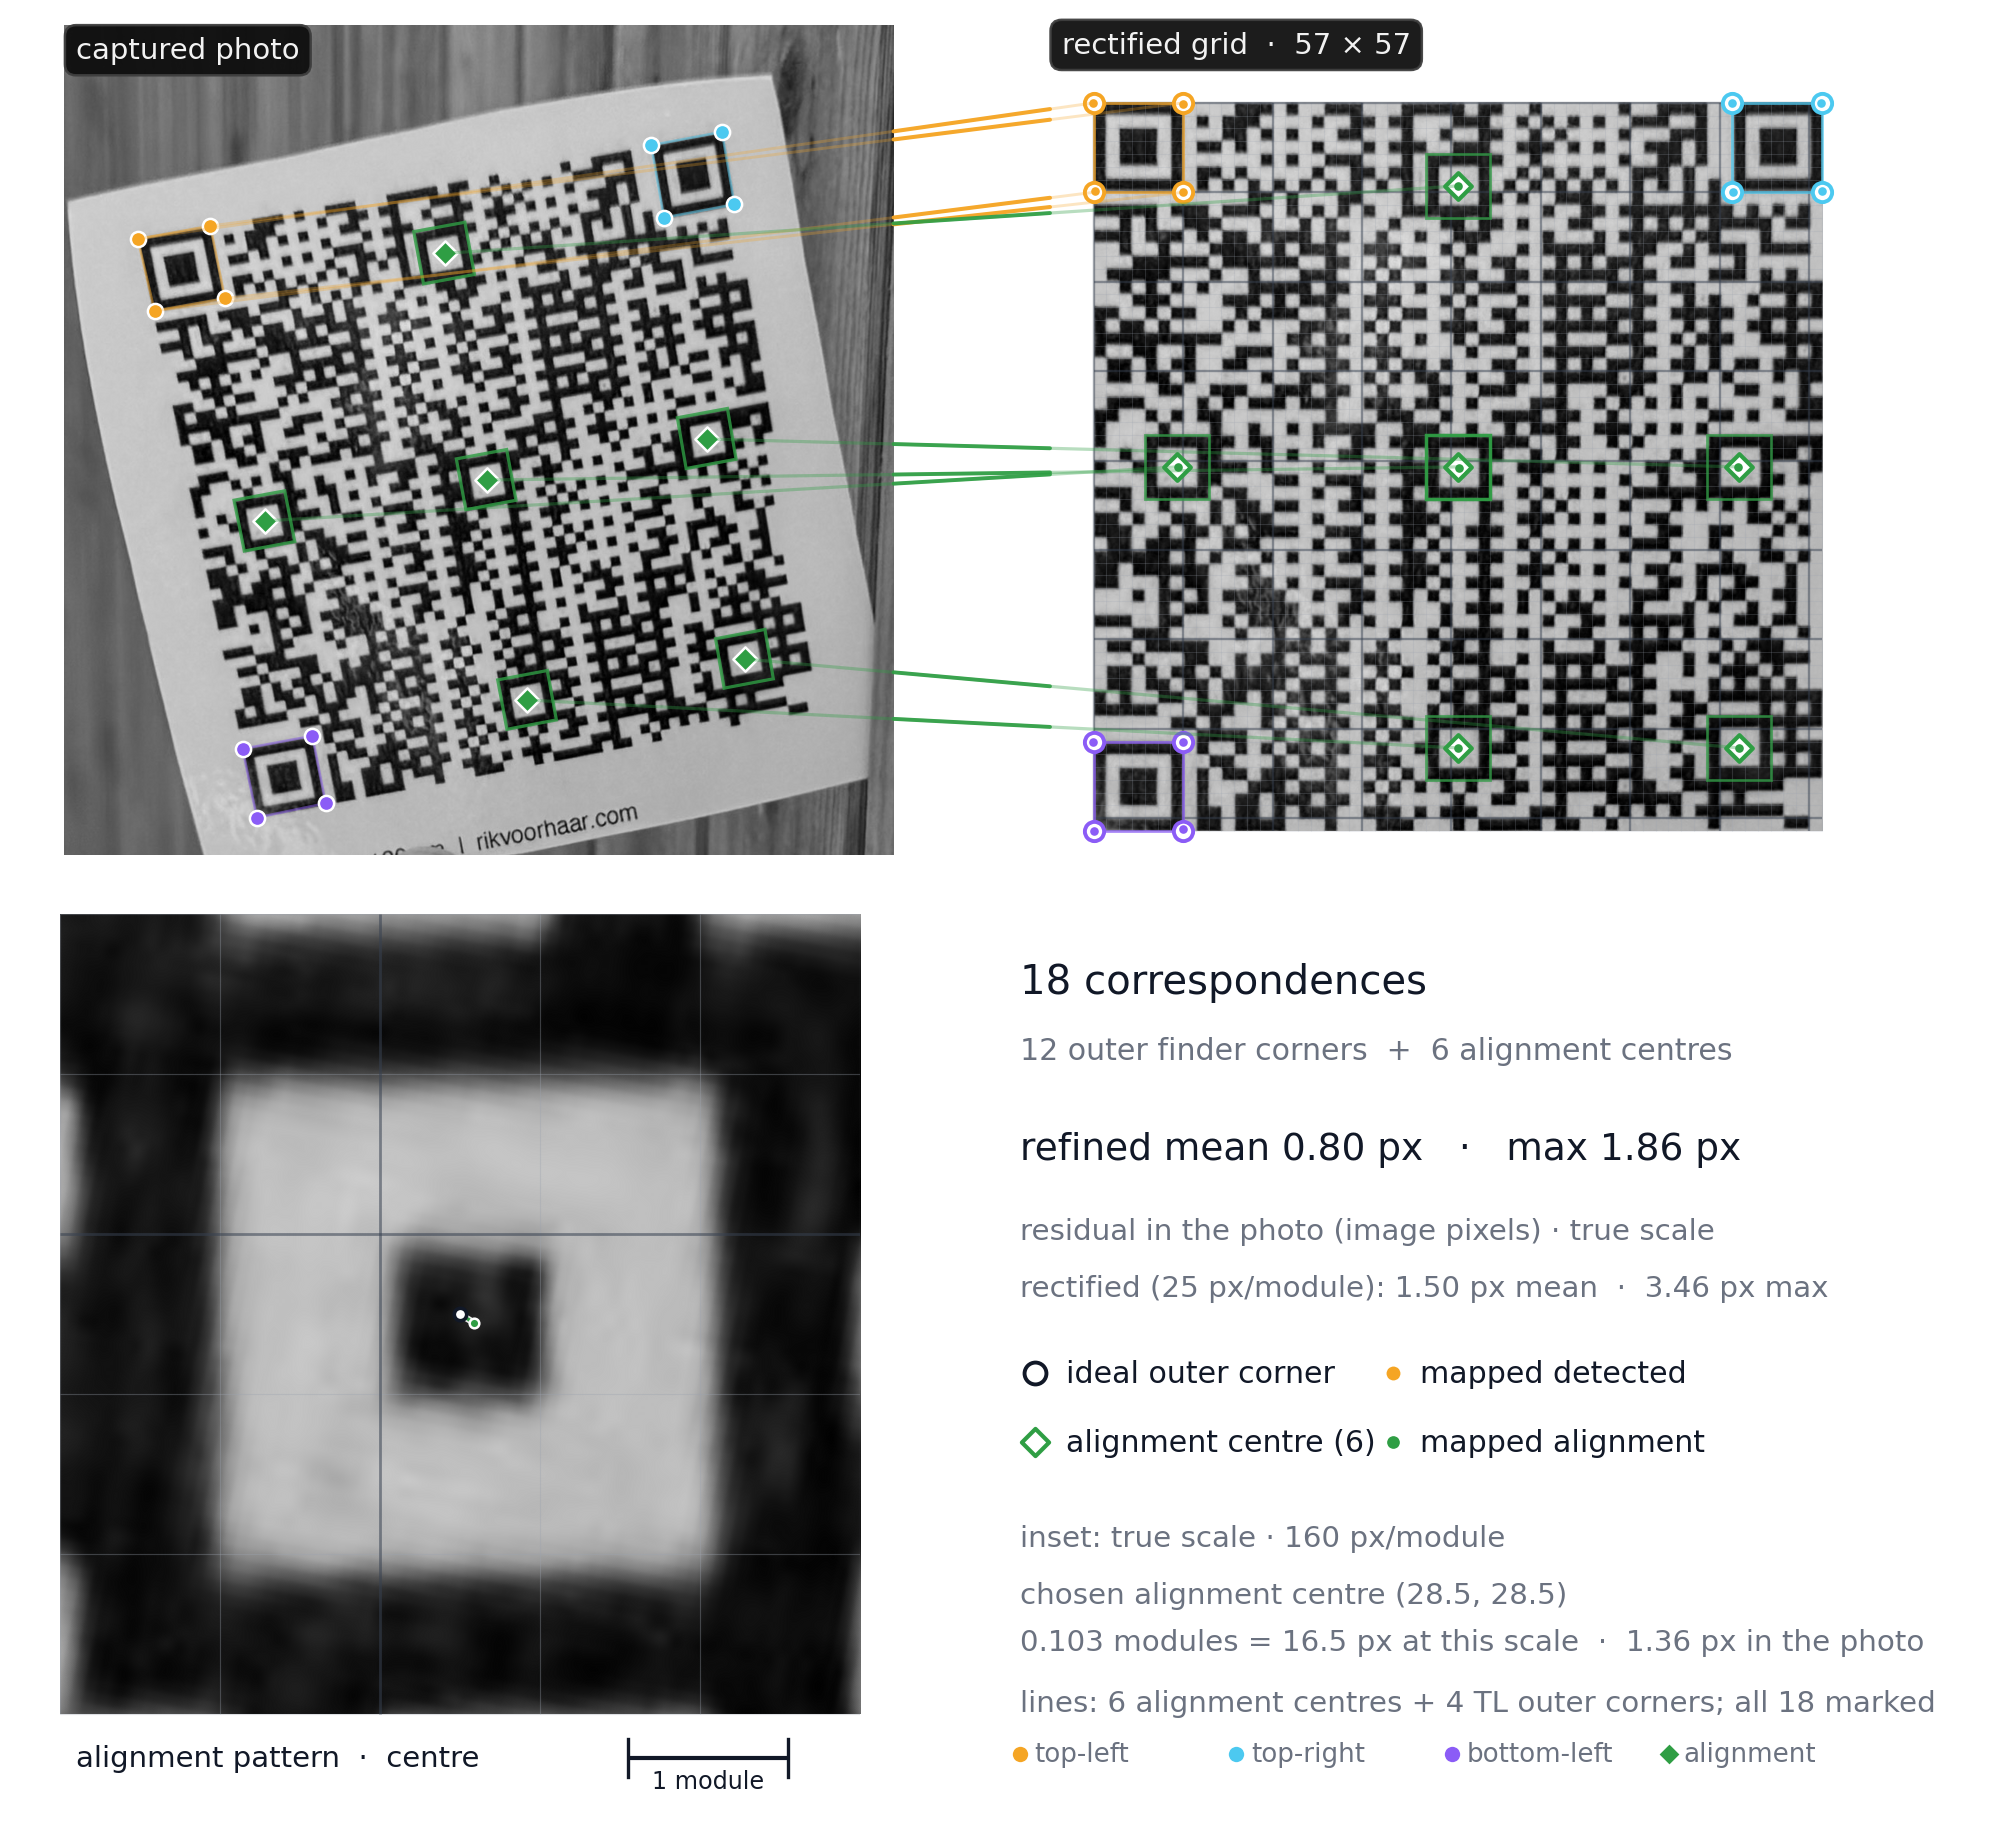
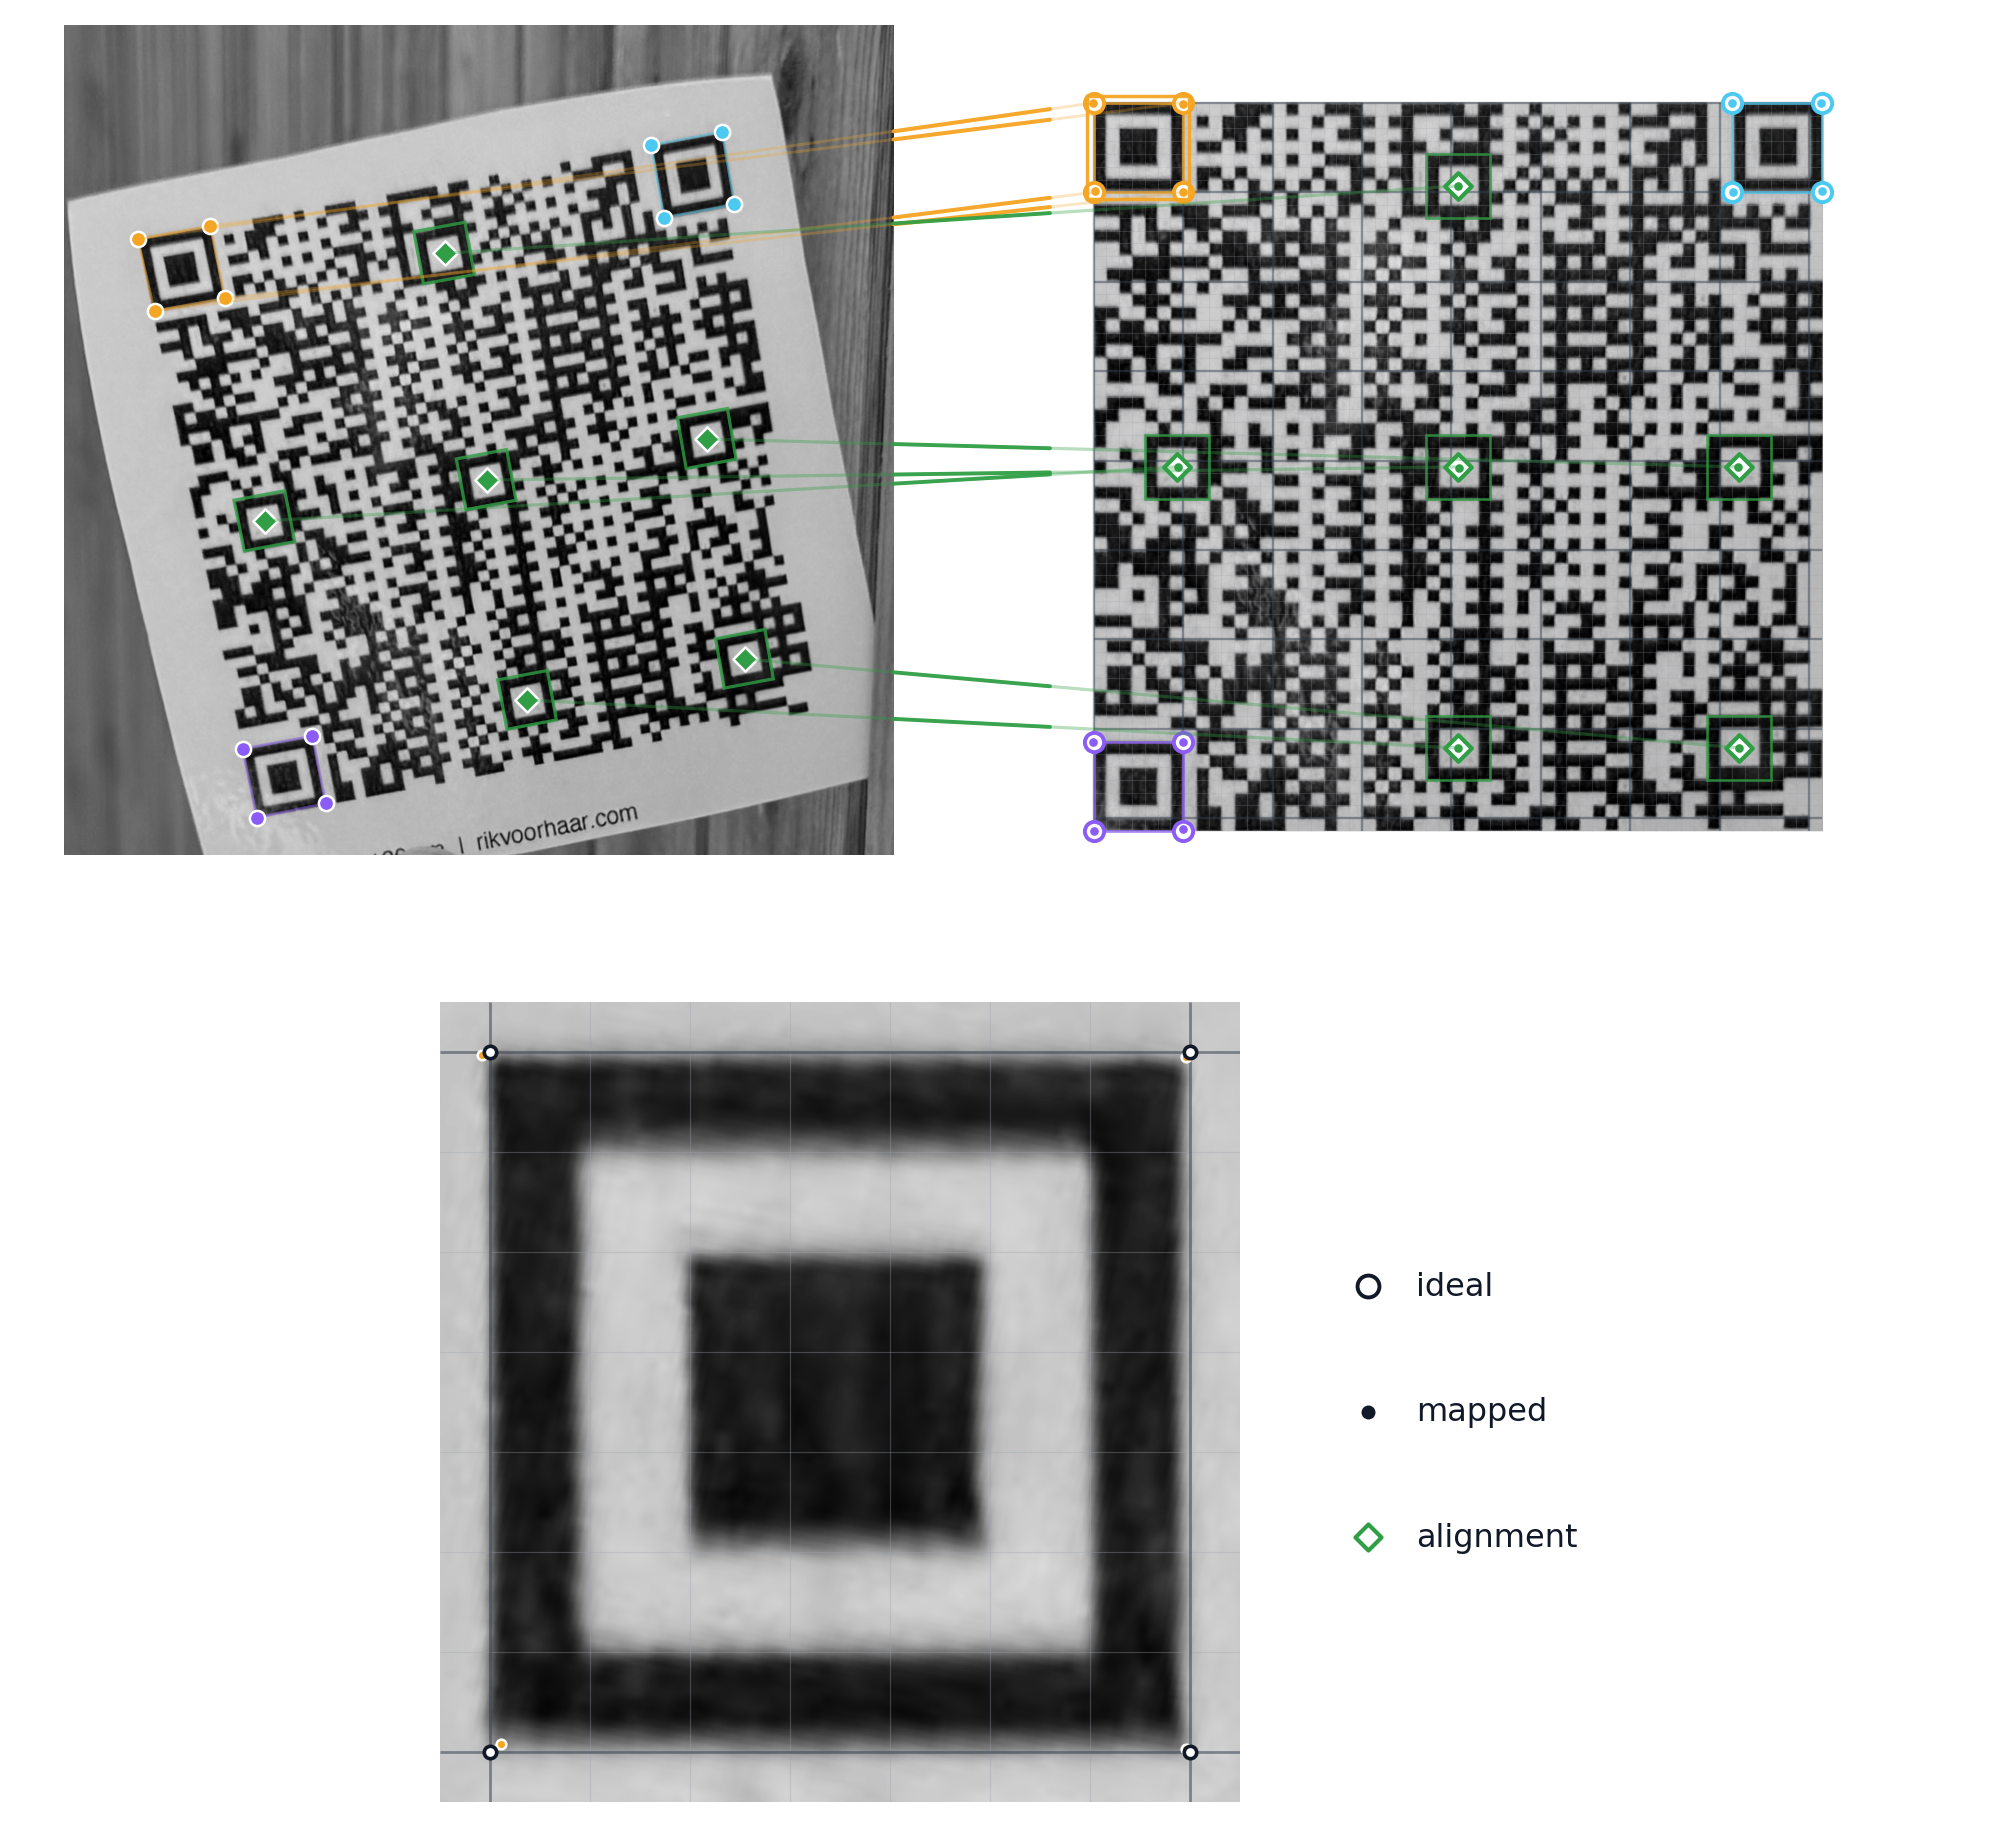
Zoom the homography figure on the finder pattern

diff --git a/ai-docs/qr-reader-plan.html b/ai-docs/qr-reader-plan.html
@@ -1055,11 +1055,11 @@ colinear_pairs: [(0, 0), (0, 2), (2, 0), (2, 2)]</code></pre>
 							the twelve outer plus six canonical alignment correspondences. The six alignment
 							patterns are outlined in green on both panels. Correspondence lines are drawn for the
 							six alignment centres and the four top-left outer corners. The inset zooms on the
-							centre alignment pattern at true scale (160 px/module), with the ideal and matched
-							centres connected by a true-length line. No exaggeration. Photo
-							<code>qr_code_ - 20.jpeg</code> (v10); refined fit mean 0.80 px, max 1.86 px;
-							rectified 1.50 px mean / 3.46 px max; chosen alignment centre 0.103 modules = 16.5 px
-							at this scale. Asset <code>homography.png</code>.
+							top-left finder pattern at true scale (8×8 modules, 100 px/module), with all four
+							ideal/mapped corners connected by true-length residual lines. No exaggeration, no
+							statistics or explanatory text; only a compact ideal/mapped/alignment legend. Photo
+							<code>qr_code_ - 20.jpeg</code> (v10); refined fit mean 0.80 px, max 1.86 px. Asset
+							<code>homography.png</code>.
 						</li>
 						<li>
 							<strong class="text-stone-200">Cross-ratio figure:</strong> the same version-10 photo
@@ -1245,8 +1245,9 @@ colinear_pairs: [(0, 0), (0, 2), (2, 0), (2, 2)]</code></pre>
 							<strong class="text-stone-100">2026-11-14</strong> — Wired the alignment-pattern
 							refined homography into <code>pipeline.decode_image</code>. Completed the homography
 							figure with the actual 12 outer + 6 alignment correspondences for v10 and a true-scale
-							5×5 alignment-pattern inset. Refined fit mean 0.80 px, max 1.86 px. The prose now ends
-							with the alignment-pattern extension.
+							top-left finder-pattern inset. Stats and explanatory text removed; compact legend
+							only. Refined fit mean 0.80 px, max 1.86 px. The prose now ends with the
+							alignment-pattern extension.
 						</li>
 					</ul>
 				</section>
